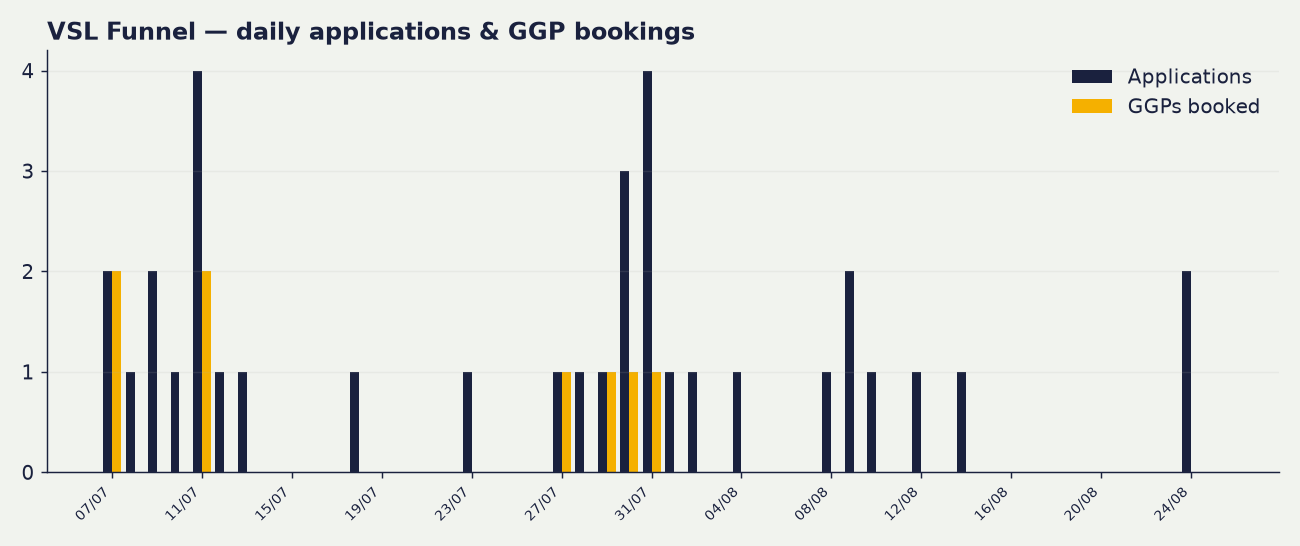
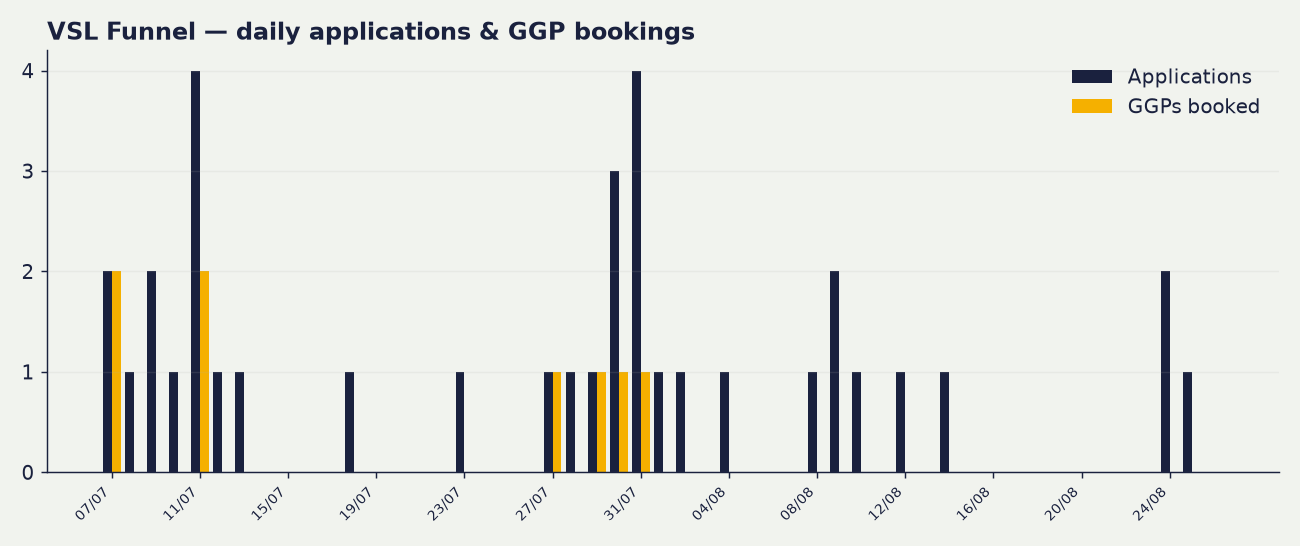
nightly dashboard update 2026-08-26 04:01

diff --git a/content/index.md b/content/index.md
@@ -1,6 +1,6 @@
 # 📈 VSL Funnel Dashboard
 
-_Live from the VSL Applications tracker + Meta. Last updated: 25 Aug 2026, 04:01 BST. Rebuilds nightly._
+_Live from the VSL Applications tracker + Meta. Last updated: 26 Aug 2026, 04:01 BST. Rebuilds nightly._
 
 > Funnel window from 2026-07-07. Attribution = your team's funnel-stage ticks on the Applications tab (the source of truth).
 
@@ -10,10 +10,10 @@ _Live from the VSL Applications tracker + Meta. Last updated: 25 Aug 2026, 04:01
 
 | Metric | Value |
 |---|---|
-| 💷 Spent | **£2,217.05** |
-| 👀 Opt-ins | **99** |
-| 📝 Applications | **44** |
-| 📞 GGPs booked | **13** |
+| 💷 Spent | **£2,281.33** |
+| 👀 Opt-ins | **101** |
+| 📝 Applications | **45** |
+| 📞 GGPs booked | **14** |
 | ✅ Showed up | **8** |
 | 🤝 Signed | **2** (Tarik, Zeeshan) |
 
@@ -21,25 +21,25 @@ _Live from the VSL Applications tracker + Meta. Last updated: 25 Aug 2026, 04:01
 
 | Step | Rate |
 |---|---|
-| Opt-in → Application | 44% |
-| Application → GGP booked | 30% |
-| GGP show rate | 62% |
+| Opt-in → Application | 45% |
+| Application → GGP booked | 31% |
+| GGP show rate | 57% |
 | Show → Sign | 25% |
-| Application → Sign | 5% |
+| Application → Sign | 4% |
 
 ## The costs
 
 | Cost | Value |
 |---|---|
-| Cost per application | £50 |
-| Cost per GGP booked | £171 |
-| Cost per show-up | £277 |
-| **Cost per acquisition (CPA)** | **£1,109** |
+| Cost per application | £51 |
+| Cost per GGP booked | £163 |
+| Cost per show-up | £285 |
+| **Cost per acquisition (CPA)** | **£1,141** |
 
 ## Ad spend split
 
-- 🔥 Warm: £1,196.59
-- ❄ Cold: £1,020.46
+- 🔥 Warm: £1,244.68
+- ❄ Cold: £1,036.65
 
 ---
 
@@ -57,4 +57,4 @@ _Live from the VSL Applications tracker + Meta. Last updated: 25 Aug 2026, 04:01
 > _Applications + GGP-booked are TRUE daily series (from submission timestamps). Opt-ins have no per-day source in the Opt-ins tab, so opt-ins appear as a total only, not a daily line._
 
 ---
-<!-- Auto-generated by the VSL dashboard nightly pipeline. Do not edit by hand. 25 Aug 2026, 04:01 BST -->
+<!-- Auto-generated by the VSL dashboard nightly pipeline. Do not edit by hand. 26 Aug 2026, 04:01 BST -->
